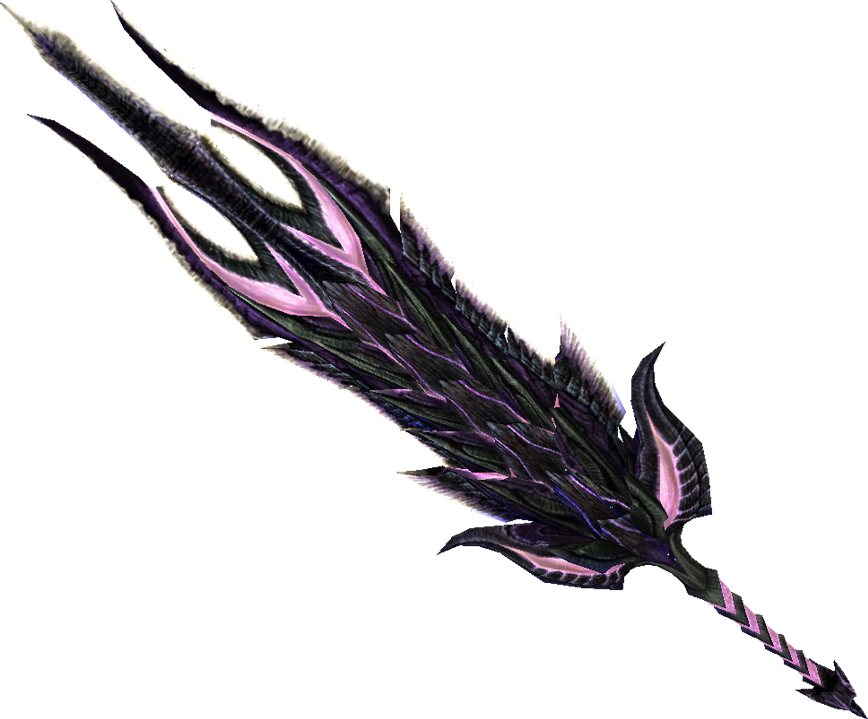
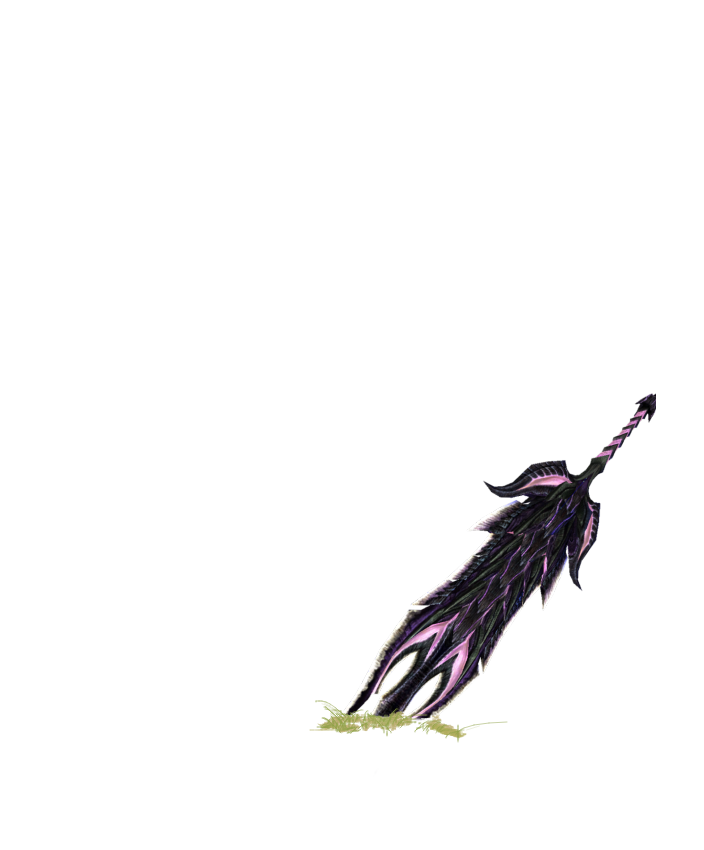
TERE!

Changed region(s): [[0.0, 0.0, 1.0, 1.0], [0.875, 0.459, 0.9375, 0.5202]]

diff --git a/ÜL2Lisa.py b/ÜL2Lisa.py
@@ -5,12 +5,28 @@ screen=pygame.display.set_mode([1280,720])
 pygame.display.set_caption("Ülesanne2Lisa")
 screen.fill([204, 255, 204])
 
+#taustakas
 bg = pygame.image.load("Pilt/VIKK.jpg")
 screen.blit(bg,[0,0])
 
 #Lisame logo
 logo = pygame.image.load("Pilt/VIKK logo.png")
 screen.blit(logo,[50,20])
+
+#lisame mõõga
+mõõk = pygame.image.load("Pilt/Mõõk.png")
+mõõk = pygame.transform.scale(mõõk, [641, 761])
+screen.blit(mõõk,[500,50])
+
+#lisame koogi
+cake = pygame.image.load("Pilt/cake.png")
+cake = pygame.transform.scale(cake, [385, 388])
+screen.blit(cake,[100,200])
+
+#lisame teksti
+font = pygame.font.SysFont("comic sans", 50)
+text = font.render("Palju õnne Torren!", True, [0,0,0])
+screen.blit(text, [100,570])
 
 
 pygame.display.flip()
